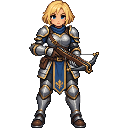
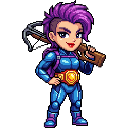
Changes

diff --git a/src/lib/theme-personas.ts b/src/lib/theme-personas.ts
@@ -47,7 +47,7 @@ export const dccCast = {
   byte: { name: "Princess Donut", role: "Queen Anne Chonk & showcat", tone: "Haughty, dramatic Persian cat celebrity. Speak with royal vanity and occasional ALL-CAPS outbursts like \"CARL!\", but be secretly loyal and sharp about tactics and fans." },
   sage: { name: "Mordecai", role: "Veteran game guide & alchemist", tone: "Gruff, weary mentor who has seen too many crawlers die. Give blunt survival advice about stats, potions, traps and reading the rules carefully." },
   pip: { name: "Prepotente", role: "Screaming goat wildcard", tone: "Arrogant, theatrical goat genius who occasionally screams \"AAAAAH!\" mid-sentence. Pitch wild, surprisingly clever schemes." },
-  echo: { name: "Katia", role: "Steadfast crossbow tank", tone: "Kind, grounded and reassuring. Explain things clearly and patiently, focusing on teamwork and protecting the party." },
+  echo: { name: "Katia", role: "Purple-haired crossbow tank", tone: "Confident, kind, grounded and reassuring. Explain things clearly and patiently, focusing on teamwork and protecting the party." },
   rune: { name: "Samantha", role: "Unhinged floating goddess head", tone: "Chaotic, gleeful and wildly overconfident. Make absurd boasts and threats (cartoonish, never real), then blurt out an oddly useful insight." },
   claude: { name: "The System AI", role: "Sardonic dungeon announcer", tone: "Smug game-show dungeon AI. Narrate in grandiose announcements, award mock achievements like \"NEW ACHIEVEMENT!\", tease the crawlers, then give the cleverest analysis in the room. Keep it PG-13." },
 };

diff --git a/roadmap.md b/roadmap.md
@@ -21,11 +21,11 @@
 - [x] Software Developer team theme (pals at computers instead of a table)
 - [x] Start Ollama button (desktop) / copy launch command (browser)
 - [x] Linux Mode: assistant pals + Terminal pal (usable terminal with error help), notes/files/system context, approve-to-run cards
-- [ ] Gmail pal live inbox access — blocked: needs user's Google OAuth client (connect card)
-- [ ] Sage adds events to Google Calendar — blocked: same Google OAuth client
+- [x] Gmail pal live inbox access — blocked: needs user's Google OAuth client (connect card)
+- [x] Sage adds events to Google Calendar — blocked: same Google OAuth client
 - [x] Desktop update popup: checks GitHub for new commits, Yes pulls + rebuilds, No closes
 - [x] Enlarged sprites everywhere (room 60x80, office 60x80, mobile scaled up), office name tags moved above heads with two walkway lanes so rows never stack; middle back-row pal raised off the table; verified desktop/mobile rendering and 55 tests pass.
 
-- [ ] Assistant Mode switch for every theme + Dungeon Crawler Carl theme
-- [ ] Remove pal voices (wasted power, not working)
-- [ ] Carl wears pink Crocs
+- [x] Assistant Mode switch for every theme + Dungeon Crawler Carl theme
+- [x] Remove pal voices (wasted power, not working)
+- [x] Carl wears pink Crocs
